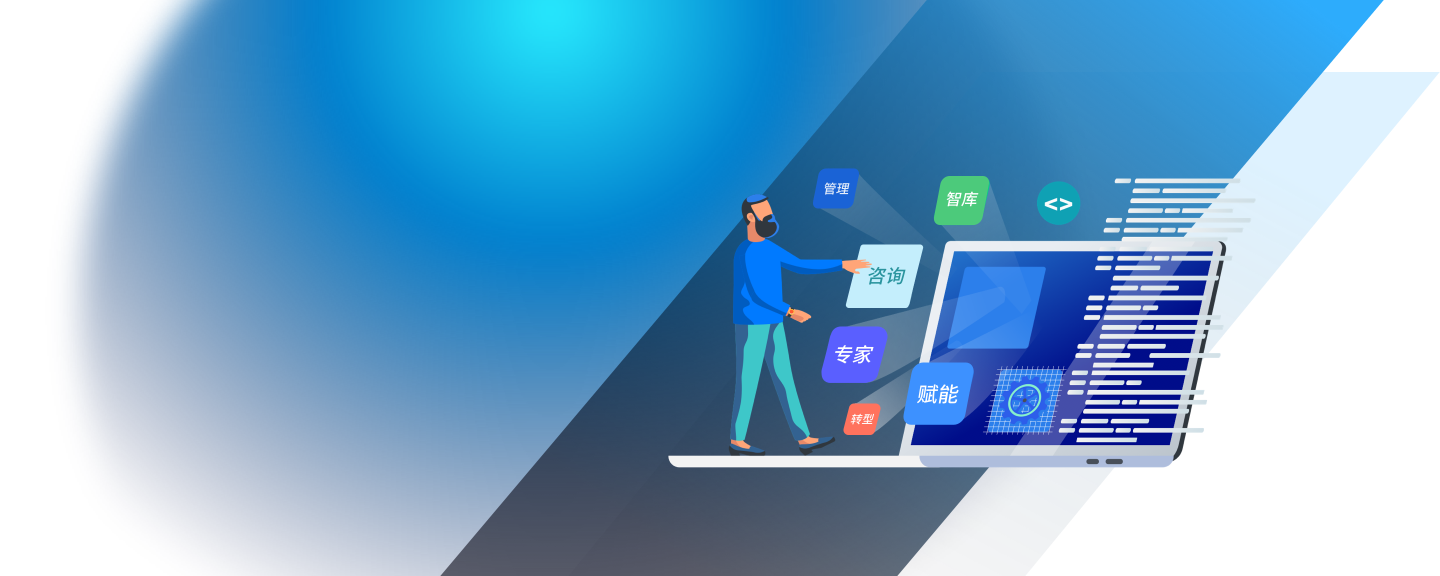
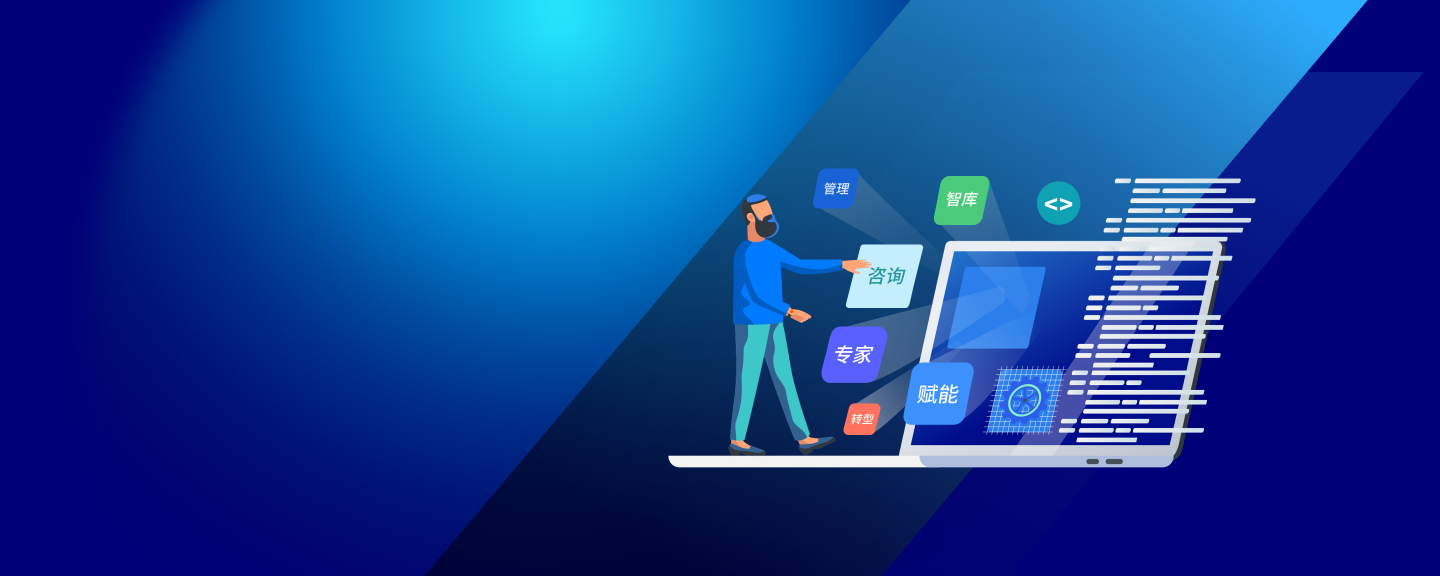
update index

diff --git a/src/views/TheIndex.vue b/src/views/TheIndex.vue
@@ -1,13 +1,15 @@
 <template>
   <div class="index-top">
     <div class="index-header">
-      <div class="header-left">
-        <router-link :to="{ path: '/' }" class="index-link">
-          <svg-icon svgClass="index-logo" svgName="indexLogo"></svg-icon>
-        </router-link>
-      </div>
-      <div class="header-right">
-        <LayoutNav :subMenu="subMenu" />
+      <div class="header-container">
+        <div class="header-left">
+          <router-link :to="{ path: '/' }" class="index-link">
+            <svg-icon svgClass="index-logo" svgName="indexLogo"></svg-icon>
+          </router-link>
+        </div>
+        <div class="header-right">
+          <LayoutNav :subMenu="subMenu" />
+        </div>
       </div>
     </div>
     <div class="index-banner">
@@ -70,49 +72,52 @@ onMounted(() => {
 
 <style lang="less" scoped>
 .index-top {
-  min-width: 1184px;
-  background: linear-gradient(90deg, #001377 0%, #000078 100%);
+  min-width: 1440px;
+  background: #000078;
   position: relative;
   .index-header {
     width: 100%;
-    height: 72px;
     background: rgba(0, 0, 0, 0.45);
     box-shadow: 0px 1px 4px 0px rgba(0, 0, 0, 0.08);
-    display: flex;
-    align-items: center;
     position: absolute;
     top: 0;
     left: 0;
-    .header-left {
-      margin-left: 128px;
-      .index-logo {
-        width: 272px;
-        height: 38px;
+    .header-container {
+      width: 1184px;
+      height: 72px;
+      margin: 0 auto;
+      display: flex;
+      align-items: center;
+      .header-left {
+        .index-logo {
+          width: 272px;
+          height: 38px;
+        }
       }
-    }
-    .header-right {
-      margin-left: 36px;
-      .ant-menu {
-        background: none;
-        border: 0;
-        :deep(.ant-menu-item),
-        :deep(.ant-menu-submenu) {
-          height: 71px;
-          line-height: 71px;
-          color: rgba(255, 255, 255, 0.85);
-          a {
+      .header-right {
+        margin-left: 36px;
+        .ant-menu {
+          background: none;
+          border: 0;
+          :deep(.ant-menu-item),
+          :deep(.ant-menu-submenu) {
+            height: 71px;
+            line-height: 71px;
             color: rgba(255, 255, 255, 0.85);
-          }
-          &.ant-menu-item-selected,
-          &.ant-menu-item-active,
-          &.ant-menu-submenu-active,
-          &.ant-menu-submenu-open {
-            a,
-            .ant-menu-submenu-title {
-              color: #fff;
+            a {
+              color: rgba(255, 255, 255, 0.85);
             }
-            &::after {
-              border-bottom: 2px solid #fff;
+            &.ant-menu-item-selected,
+            &.ant-menu-item-active,
+            &.ant-menu-submenu-active,
+            &.ant-menu-submenu-open {
+              a,
+              .ant-menu-submenu-title {
+                color: #fff;
+              }
+              &::after {
+                border-bottom: 2px solid #fff;
+              }
             }
           }
         }
@@ -120,8 +125,9 @@ onMounted(() => {
     }
   }
   .index-banner {
-    width: 1184px;
+    width: 1440px;
     height: 576px;
+    padding-left: 128px;
     background: url(@/assets/images/banner.png) no-repeat center / cover;
     margin: 0 auto;
     .banner-content {
@@ -164,7 +170,8 @@ onMounted(() => {
   }
 }
 .index-bottom {
-  width: 1184px;
+  width: 1440px;
+  padding: 0 128px;
   margin: 40px auto;
   padding-bottom: 32px;
   .intro-section {
